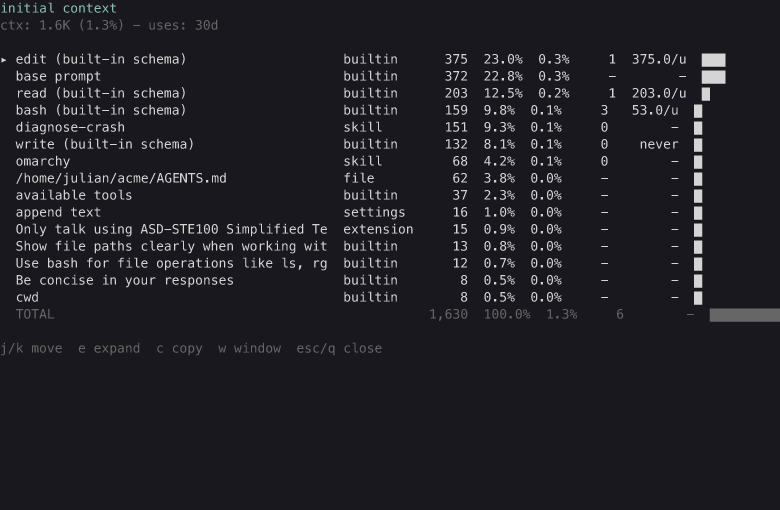
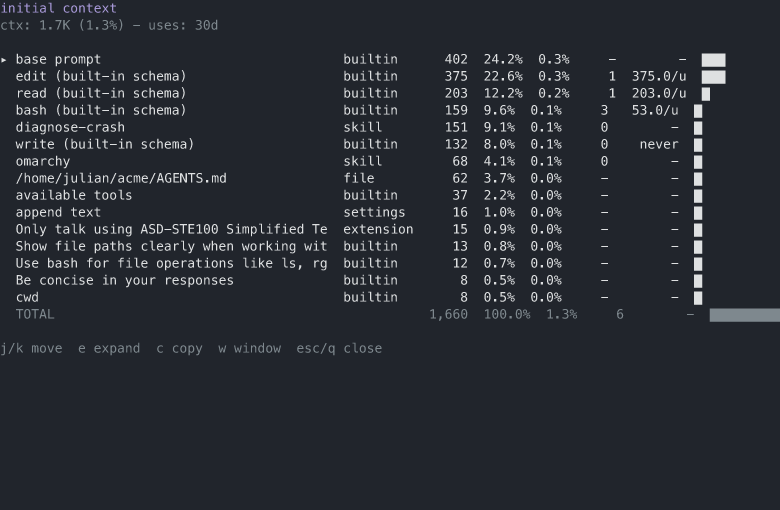
Handle the pi 1.0 breaking changes on the pi-packages bump
- initial-context: pi 1.0.2 grew the base prompt's docs bullet (MCP
  servers, codemode), so the byte-for-byte reconstruction and the
  split-row fixture carry the new line.
- context-cap: pi's ProviderModelConfig is now a chat/image/classifier
  union that already carries samplingParams, so CappedModelConfig
  narrows to the chat member instead of intersecting the old type with
  a hand-added samplingParams field.
- background-jobs tests: a tool's execute() now takes
  ExtensionToolContext, not ExtensionContext.
- screenshots: pi's dark theme moved from hex to OKHSL values, so the
  off-screen theme resolver accepts OKLCH/OKHSL literals the way pi's
  own loader does, and the pinned page background and default
  foreground are derived from dark.json instead of hand-copied hex.
  Re-rendered every capture and re-blessed the two renderer goldens;
  the /ctx capture total moved from 1,630 to 1,660 tokens with the
  longer base prompt.
- e2e: pi 1.0 moved the llama.cpp provider into a built-in extension,
  which --no-extensions turns off, so the llama-refresh and
  output-starvation runs load builtin:llama.cpp explicitly.
- drop scripts/patch-brace-expansion.mjs and its overrides: pi 1.0.2
  ships no npm-shrinkwrap.json and pins brace-expansion 5.0.12 itself,
  which is the removal condition the patch documented.

diff --git a/extensions/initial-context/context.ts b/extensions/initial-context/context.ts
@@ -201,7 +201,7 @@ const CUSTOM_TOOLS_LINE = "In addition to the tools above, you may have access t
 /** The fixed pi-documentation bullets at the end of the base prompt. */
 const PI_DOCS_BULLETS = [
 	"- When reading pi docs or examples, resolve docs/... under Additional docs and examples/... under Examples, not the current working directory",
-	"- When asked about: extensions (docs/extensions.md, examples/extensions/), themes (docs/themes.md), skills (docs/skills.md), prompt templates (docs/prompt-templates.md), TUI components (docs/tui.md), keybindings (docs/keybindings.md), SDK integrations (docs/sdk.md), custom providers (docs/custom-provider.md), adding models (docs/models.md), pi packages (docs/packages.md), environment variables (docs/environment-variables.md)",
+	"- When asked about: extensions (docs/extensions.md, examples/extensions/), themes (docs/themes.md), skills (docs/skills.md), prompt templates (docs/prompt-templates.md), TUI components (docs/tui.md), keybindings (docs/keybindings.md), SDK integrations (docs/sdk.md), custom providers (docs/custom-provider.md), adding models (docs/models.md), pi packages (docs/packages.md), environment variables (docs/environment-variables.md), MCP servers (docs/mcp.md), codemode scripts and non-LLM models such as classifiers and image models (docs/codemode.md)",
 	"- When working on pi topics, read the docs and examples, and follow .md cross-references before implementing",
 	"- Always read pi .md files completely and follow links to related docs (e.g., tui.md for TUI API details)",
 ];

diff --git a/tests/initial-context/core.test.ts b/tests/initial-context/core.test.ts
@@ -372,7 +372,7 @@ describe("base prompt split rows", () => {
 			`- Additional docs: ${getDocsPath()}`,
 			`- Examples: ${getExamplesPath()} (extensions, custom tools, SDK)`,
 			"- When reading pi docs or examples, resolve docs/... under Additional docs and examples/... under Examples, not the current working directory",
-			"- When asked about: extensions (docs/extensions.md, examples/extensions/), themes (docs/themes.md), skills (docs/skills.md), prompt templates (docs/prompt-templates.md), TUI components (docs/tui.md), keybindings (docs/keybindings.md), SDK integrations (docs/sdk.md), custom providers (docs/custom-provider.md), adding models (docs/models.md), pi packages (docs/packages.md), environment variables (docs/environment-variables.md)",
+			"- When asked about: extensions (docs/extensions.md, examples/extensions/), themes (docs/themes.md), skills (docs/skills.md), prompt templates (docs/prompt-templates.md), TUI components (docs/tui.md), keybindings (docs/keybindings.md), SDK integrations (docs/sdk.md), custom providers (docs/custom-provider.md), adding models (docs/models.md), pi packages (docs/packages.md), environment variables (docs/environment-variables.md), MCP servers (docs/mcp.md), codemode scripts and non-LLM models such as classifiers and image models (docs/codemode.md)",
 			"- When working on pi topics, read the docs and examples, and follow .md cross-references before implementing",
 			"- Always read pi .md files completely and follow links to related docs (e.g., tui.md for TUI API details)",
 			"</docs>",

diff --git a/tests/background-jobs/tools.test.ts b/tests/background-jobs/tools.test.ts
@@ -16,7 +16,7 @@ import { afterAll, describe, expect, it } from "vitest";
 import { existsSync, mkdirSync, mkdtempSync, rmSync, utimesSync, writeFileSync } from "node:fs";
 import { tmpdir } from "node:os";
 import { join } from "node:path";
-import type { ExtensionAPI, ExtensionContext, Theme } from "@earendil-works/pi-coding-agent";
+import type { ExtensionAPI, ExtensionToolContext, Theme } from "@earendil-works/pi-coding-agent";
 import registerBackgroundJobs, { registerTools } from "../../extensions/background-jobs/index";
 import { paintBashBgCallLine } from "../../extensions/background-jobs/render";
 import { MAX_LISTED_JOBS, formatLiveJobs } from "../../extensions/background-jobs/core.ts";
@@ -47,10 +47,10 @@ function makeHarness(): Harness {
 	registerTools(pi);
 
 	const sessionFile = join(sessionsRoot, "project", "session.jsonl");
-	const ctx: ExtensionContext = {
+	const ctx: ExtensionToolContext = {
 		cwd: projectCwd,
 		sessionManager: { getSessionFile: () => sessionFile },
-	} as unknown as ExtensionContext;
+	} as unknown as ExtensionToolContext;
 
 	return {
 		sessionsRoot,
@@ -243,7 +243,7 @@ function makeHarnessSameRoot(sessionsRoot: string): Harness {
 	const ctx = {
 		cwd: join(sessionsRoot, "project"),
 		sessionManager: { getSessionFile: () => sessionFile },
-	} as unknown as ExtensionContext;
+	} as unknown as ExtensionToolContext;
 	return {
 		sessionsRoot,
 		call: async (tool, params) => {

diff --git a/extensions/context-cap/cap.ts b/extensions/context-cap/cap.ts
@@ -4,12 +4,14 @@ import type { Api, Model } from "@earendil-works/pi-ai";
 export type CapParse = { ok: true; cap: number } | { ok: false; error: string };
 
 /**
- * ProviderModelConfig plus samplingParams. The installed pi type omits the
- * field, but pi's composer spreads the whole definition object into the new
- * model, so the value survives re-registration at runtime. Without it, base
- * per-model sampling defaults would be lost on capping.
+ * The chat-model member of pi's ProviderModelConfig.
+ *
+ * pi's public model-config union also covers image and classifier models,
+ * which carry no contextWindow, reasoning, or samplingParams. A capped
+ * registry model is always a chat model, so the replacement definitions are
+ * narrowed to that member.
  */
-export type CappedModelConfig = ProviderModelConfig & { samplingParams?: Record<string, unknown> };
+export type CappedModelConfig = Extract<ProviderModelConfig, { type?: "chat" }>;
 
 /** Parse a cap value from the --context-window flag or PI_CONTEXT_WINDOW env var. */
 export function parseCap(raw: string): CapParse {
